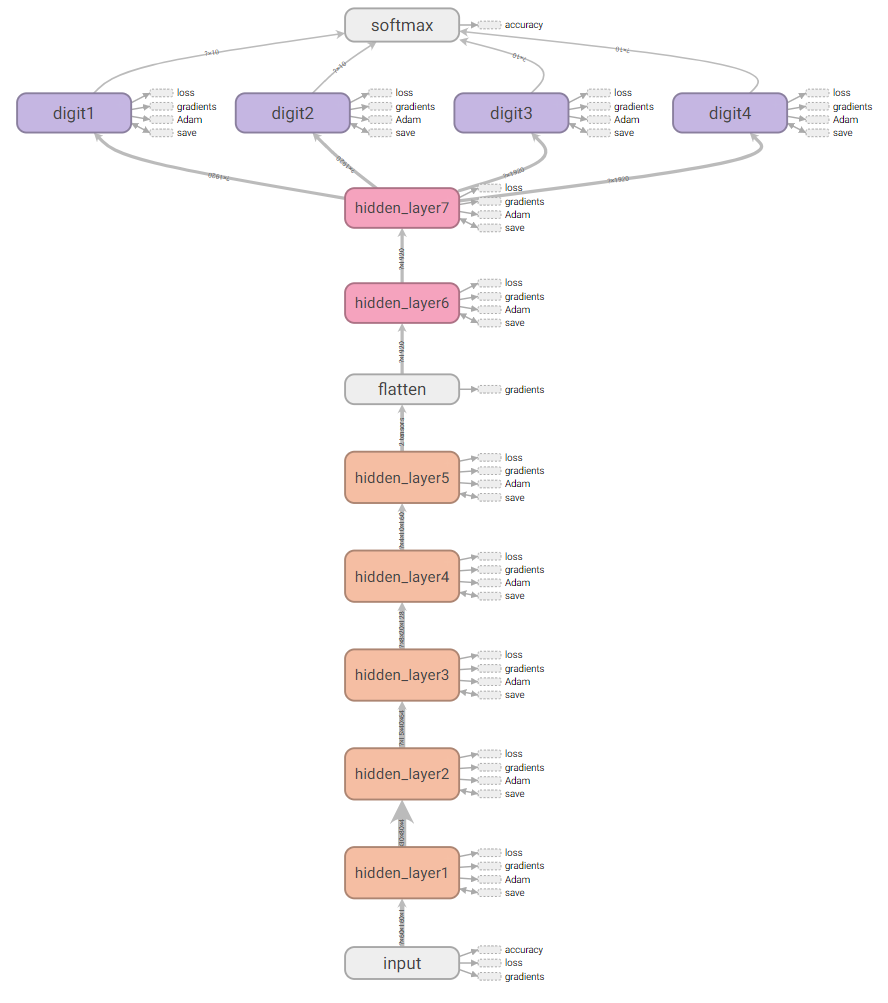
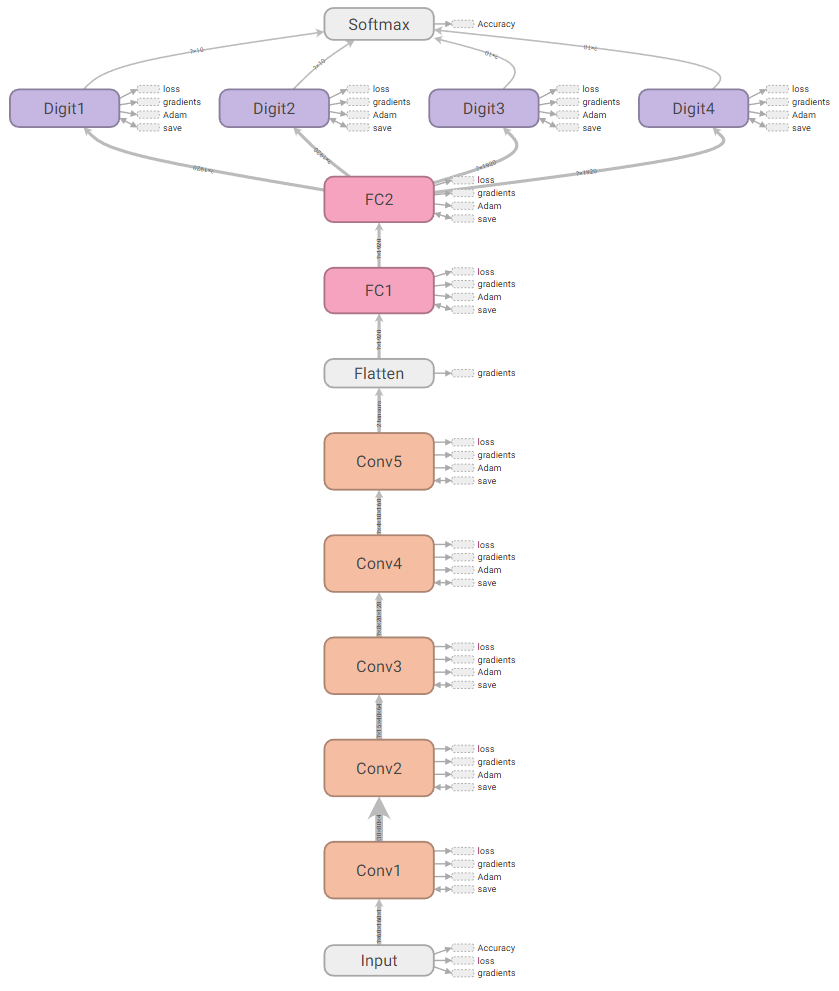
rename network layer name

Changed region(s): [[0.0, 0.0, 0.9917, 0.999], [0.1859, 0.0303, 0.3409, 0.0605], [0.6508, 0.0303, 0.7747, 0.0605]]

diff --git a/src/train.py b/src/train.py
@@ -24,7 +24,7 @@ def train(train_data_path,
     train_data = DataSet(train_data_path)
     test_data = DataSet(test_data_path)
     val_data = DataSet(val_data_path)
-    with tf.name_scope("input"):
+    with tf.name_scope("Input"):
         x = tf.placeholder(tf.float32, shape=[None, 60, 160, 1], name='x')
         digit1 = tf.placeholder(tf.int32, shape=[None, 1], name='digit1')
         digit2 = tf.placeholder(tf.int32, shape=[None, 1], name='digit2')
@@ -37,11 +37,11 @@ def train(train_data_path,
                          tf.one_hot(digit4, 10))
     drop_rate_tensor = tf.placeholder(tf.float32)
     digit_logits = Model.inference(x, drop_rate_tensor, tf.contrib.layers.l2_regularizer(regularization_scale))
-    with tf.name_scope("softmax"):
+    with tf.name_scope("Softmax"):
         digits_probs = [tf.nn.softmax(logits) for logits in digit_logits]
         pred_digits_tensor = [tf.cast(tf.argmax(prob, axis=1), tf.int32) for prob in digits_probs]
 
-    with tf.name_scope("accuracy"):
+    with tf.name_scope("Accuracy"):
         tf_equal = tf.equal(tf.stack(pred_digits_tensor, axis=1), tf.squeeze(tf.stack(digits_group, axis=1)))
         tf_equal = tf.equal(tf.reduce_sum(tf.cast(tf_equal, tf.float32), axis=1), 4)
         accuracy = tf.reduce_mean(tf.cast(tf_equal, tf.float32))
@@ -68,7 +68,7 @@ def train(train_data_path,
         ckpt_state = tf.train.get_checkpoint_state(model_dir)
         if ckpt_state and ckpt_state.model_checkpoint_path:
             print("Restore model from {}".format(ckpt_state.model_checkpoint_path))
-            saver.restore(sess, ckpt_state.model_checkpoint_path)
+            # saver.restore(sess, ckpt_state.model_checkpoint_path)
         for step in range(max_steps+1):
             images, digits = sess.run([train_image_batch, train_digits_batch])
             _, loss_val, summary = sess.run([train_op, loss, merged_summary], feed_dict={

diff --git a/src/model.py b/src/model.py
@@ -84,28 +84,28 @@ class Model(object):
             dense = tf.layers.dense(fc_output, 10)
             digit1 = dense
             if regularization:
-                kernel = tf.get_collection(tf.GraphKeys.GLOBAL_VARIABLES, 'digit1/dense/kernel')[0]
+                kernel = tf.get_collection(tf.GraphKeys.GLOBAL_VARIABLES, 'Digit1/dense/kernel')[0]
                 tf.add_to_collection('loss', regularization(kernel))
 
         with tf.variable_scope('Digit2'):
             dense = tf.layers.dense(fc_output, 10)
             digit2 = dense
             if regularization:
-                kernel = tf.get_collection(tf.GraphKeys.GLOBAL_VARIABLES, 'digit2/dense/kernel')[0]
+                kernel = tf.get_collection(tf.GraphKeys.GLOBAL_VARIABLES, 'Digit2/dense/kernel')[0]
                 tf.add_to_collection('loss', regularization(kernel))
 
         with tf.variable_scope('Digit3'):
             dense = tf.layers.dense(fc_output, 10)
             digit3 = dense
             if regularization:
-                kernel = tf.get_collection(tf.GraphKeys.GLOBAL_VARIABLES, 'digit3/dense/kernel')[0]
+                kernel = tf.get_collection(tf.GraphKeys.GLOBAL_VARIABLES, 'Digit3/dense/kernel')[0]
                 tf.add_to_collection('loss', regularization(kernel))
 
         with tf.variable_scope('Digit4'):
             dense = tf.layers.dense(fc_output, 10)
             digit4 = dense
             if regularization:
-                kernel = tf.get_collection(tf.GraphKeys.GLOBAL_VARIABLES, 'digit4/dense/kernel')[0]
+                kernel = tf.get_collection(tf.GraphKeys.GLOBAL_VARIABLES, 'Digit4/dense/kernel')[0]
                 tf.add_to_collection('loss', regularization(kernel))
         digits_logits = (digit1, digit2, digit3, digit4)
         return digits_logits

diff --git a/src/eval.py b/src/eval.py
@@ -14,7 +14,7 @@ def eval(data_path, batch_size, model_dir):
     tf.reset_default_graph()
     data = DataSet(data_path)
     image_batch, digits_batch = data.next_batch(batch_size, False)
-    with tf.name_scope("input"):
+    with tf.name_scope("Input"):
         x = tf.placeholder(tf.float32, shape=[None, 60, 160, 1], name='x')
         digit1 = tf.placeholder(tf.int32, shape=[None, 1], name='digit1')
         digit2 = tf.placeholder(tf.int32, shape=[None, 1], name='digit2')
@@ -22,11 +22,11 @@ def eval(data_path, batch_size, model_dir):
         digit4 = tf.placeholder(tf.int32, shape=[None, 1], name='digit4')
         digits_group = [digit1, digit2, digit3, digit4]
     digit_logits = Model.inference(x, 1.0, None)
-    with tf.name_scope("softmax"):
+    with tf.name_scope("Softmax"):
         digits_probs = [tf.nn.softmax(logits) for logits in digit_logits]
         pred_digits_tensor = [tf.cast(tf.argmax(prob, axis=1), tf.int32) for prob in digits_probs]
 
-    with tf.name_scope("accuracy"):
+    with tf.name_scope("Accuracy"):
         tf_equal = tf.equal(tf.stack(pred_digits_tensor, axis=1), tf.squeeze(tf.stack(digits_group, axis=1)))
         tf_equal = tf.equal(tf.reduce_sum(tf.cast(tf_equal, tf.float32), axis=1), 4)
         accuracy = tf.reduce_mean(tf.cast(tf_equal, tf.float32))

diff --git a/src/predict_verification_ode_image.py b/src/predict_verification_ode_image.py
@@ -26,14 +26,14 @@ def predict(image_path, model_path):
     image_np = np.expand_dims(image_np, axis=2)
 
     tf.reset_default_graph()
-    with tf.name_scope("input"):
+    with tf.name_scope("Input"):
         x = tf.placeholder(tf.float32, shape=[None, 60, 160, 1], name='x')
     digit_logits = Model.inference(x, 1.0, None, show_net_summary=False)
-    with tf.name_scope("softmax"):
+    with tf.name_scope("Softmax"):
         digits_probs = [tf.nn.softmax(logits) for logits in digit_logits]
         pred_digits_tensor = [tf.cast(tf.argmax(prob, axis=1), tf.int32) for prob in digits_probs]
 
-    with tf.name_scope("predict"):
+    with tf.name_scope("Predict"):
         predict_tensor = tf.stack(pred_digits_tensor, axis=1)
 
     saver = tf.train.Saver()
